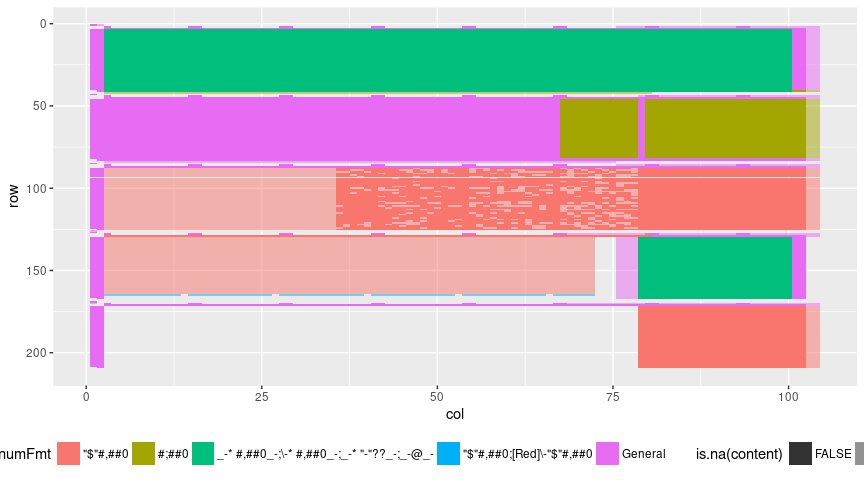
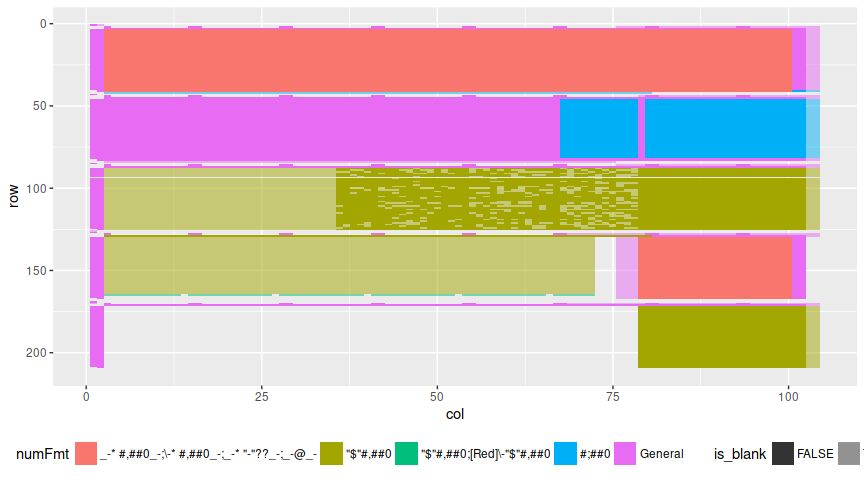
Add example of detecting CSV-injection via xlex

diff --git a/README.md b/README.md
@@ -13,38 +13,26 @@ Spreadsheets are notoriously helpful in converting numbers to dates. Humans are 
 This is basically a thin wrapper around [`tidyxl`](https://github.com/nacnudus/tidyxl) and [`unpivotr`](https://github.com/nacnudus/unpivotr) that plots cells in their positions and colours them by some property, e.g. number format.
 
 ``` r
-library(tidyxl)
 library(tidyverse)
-#> Loading tidyverse: ggplot2
-#> Loading tidyverse: tibble
-#> Loading tidyverse: tidyr
-#> Loading tidyverse: readr
-#> Loading tidyverse: purrr
-#> Loading tidyverse: dplyr
-#> Conflicts with tidy packages ----------------------------------------------
-#> filter(): dplyr, stats
-#> lag():    dplyr, stats
+library(tidyxl)
+library(goggles)
 
-x <- tidy_xlsx(system.file("extdata/road-policing-driver-offence-data-jan2009-sep2006.xlsx",
-                           package = "nzpullover"))
+filepath = system.file("extdata/road-policing-driver-offence-data-jan2009-sep2006.xlsx",
+                       package = "goggles")
+cells <- xlsx_cells(filepath)
+formats <- xlsx_formats(filepath)
+sheets <- xlsx_sheet_names(filepath)
 
-redlight <- x$data[["Red Light"]]
-redlight$numFmt <- x$formats$local$numFmt[redlight$local_format_id]
+alcdrug <- filter(cells, sheet == sheets[9])
+alcdrug$numFmt <- formats$local$numFmt[alcdrug$local_format_id]
 
-ggplot(x$data[[4]], aes(col, row,
-           fill = data_type,
-           alpha = is.na(content))) +
-geom_tile() +
-scale_y_reverse() +
-scale_alpha_manual(values = c(1, .5)) +
+ggplot(alcdrug, aes(col, row, fill = data_type, alpha = is_blank)) +
+  geom_tile() +
+  scale_y_reverse() +
+  scale_alpha_manual(values = c(1, .5)) +
   theme(legend.position = "bottom")
 
-numFmts <- x$formats$local$numFmt
-x$data[[4]] %>%
-  mutate(numFmt = numFmts[local_format_id]) %>%
-  ggplot(aes(col, row,
-             fill = numFmt,
-             alpha = is.na(content))) +
+ggplot(alcdrug, aes(col, row, fill = numFmt, alpha = is_blank)) +
   geom_tile() +
   scale_y_reverse() +
   scale_alpha_manual(values = c(1, .5)) +
@@ -52,3 +40,21 @@ x$data[[4]] %>%
 ```
 
 ![](README-unnamed-chunk-2-1.png)![](README-unnamed-chunk-2-2.png)
+
+### CSV code injection
+
+<!--html_preserve-->
+{{&lt; tweet 921724929535545344 &gt;}}<!--/html_preserve-->
+
+Check for executable system calls by parsing formulas with `tidyxl::xlex()`. Such calls are known as 'DDE calls'.
+
+``` r
+tidyxl::xlex("=2+5+cmd|' /C calc'!A0")
+#> root                   
+#> ¦-- =                  operator
+#> ¦-- 2                  number
+#> ¦-- +                  operator
+#> ¦-- 5                  number
+#> ¦-- +                  operator
+#> °-- cmd|' /C calc'!A0  DDE
+```
